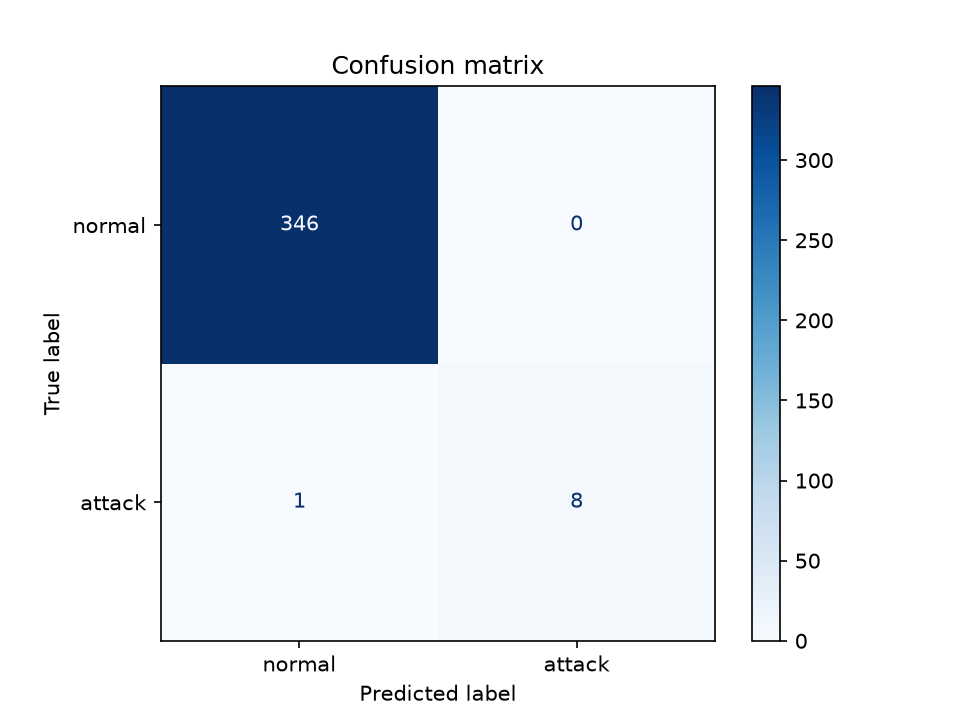
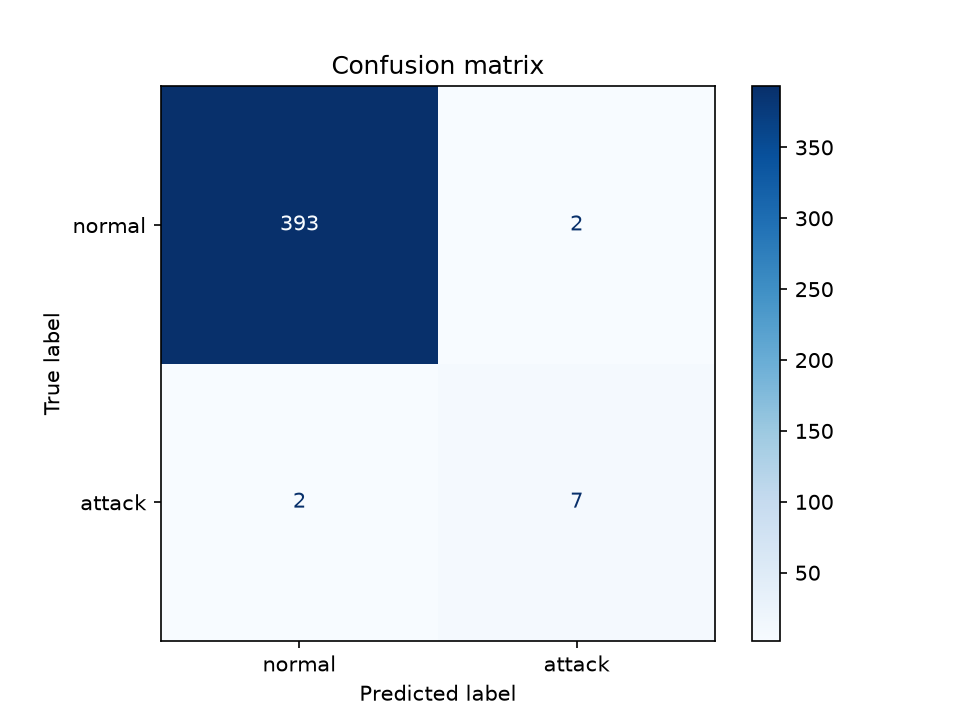
Add Deauth_12, final real dataset: 1,616 rows, 38 attacks, added a dashboard..streamlit

diff --git a/dashboard.py b/dashboard.py
@@ -1,0 +1,70 @@
+import streamlit as st
+import pandas as pd
+from my_data import load_real_data, split_data, train_model, evaluate_model
+
+st.set_page_config(page_title="WIPS Dashboard", layout="wide")
+st.title("WIPS: Deauth Flood Detection Dashboard")
+st.caption("Live demonstration — Hope Mbugua, BCNS, Wireless and Mobile Security")
+
+# @st.cache_resource means: run this once, keep the result, don't retrain every time
+# Streamlit re-runs your whole script on every interaction, so without caching
+# you'd retrain the model every time you click anything.
+@st.cache_resource
+def get_model_and_data():
+    data = load_real_data()
+    X_train, X_test, y_train, y_test = split_data(data)
+    model = train_model(X_train, y_train)
+    return model, X_test, y_test
+
+model, X_test, y_test = get_model_and_data()
+predictions = model.predict(X_test)
+
+col1, col2, col3 = st.columns(3)
+col1.metric("Accuracy", f"{(predictions == y_test).mean() * 100:.2f}%")
+col2.metric("Test rows", len(X_test))
+col3.metric("Attacks in test set", int(y_test.sum()))
+
+st.subheader("Confusion Matrix")
+from sklearn.metrics import confusion_matrix
+cm = confusion_matrix(y_test, predictions)
+cm_df = pd.DataFrame(cm, index=["Actual Normal", "Actual Attack"], columns=["Predicted Normal", "Predicted Attack"])
+st.dataframe(cm_df)
+
+import time
+from sklearn.model_selection import train_test_split
+
+st.subheader("Live Detection")
+
+# Re-create the same test split, but keeping the full row (including mac)
+# this uses the same random_state/test_size as split_data, so it's the same rows
+data = load_real_data()
+_, test_full = train_test_split(data, test_size=0.25, random_state=42, stratify=data["label"])
+
+FEATURES = ["frames_per_sec", "deauth_per_sec", "signal_strength", "deauth_ratio"]
+
+if st.button("Start Live Detection"):
+    blocked = set()
+    alerts = []
+    feed = st.empty()          # a placeholder we keep overwriting
+    counter = st.empty()
+
+    for _, row in test_full.iterrows():
+        mac = row["mac"]
+        if mac in blocked:
+            continue
+
+        features = pd.DataFrame([row[FEATURES]])
+        result = model.predict(features)[0]
+
+        if result == 1:
+            blocked.add(mac)
+            alerts.append({
+                "MAC": mac,
+                "Deauth/sec": row["deauth_per_sec"],
+                "Action": "BLOCKED",
+            })
+            feed.dataframe(pd.DataFrame(alerts))
+            counter.metric("Attackers blocked", len(blocked))
+            time.sleep(0.3)   # small pause so it visibly streams in, not an instant dump
+
+    st.success(f"Detection run finished. {len(blocked)} attackers blocked.")

diff --git a/load_awid3.py b/load_awid3.py
@@ -5,7 +5,7 @@ cols = [
     "wlan_radio.signal_dbm", "radiotap.dbm_antsignal", "Label",
 ]
 
-files = ["Deauth_32.csv", "Deauth_0.csv", "Deauth_15.csv", "Deauth_29.csv"]   # adjust paths if needed
+files = ["Deauth_32.csv", "Deauth_0.csv", "Deauth_15.csv", "Deauth_29.csv", "Deauth_12.csv"]   # adjust paths if needed
 
 all_raw = []
 for f in files:
